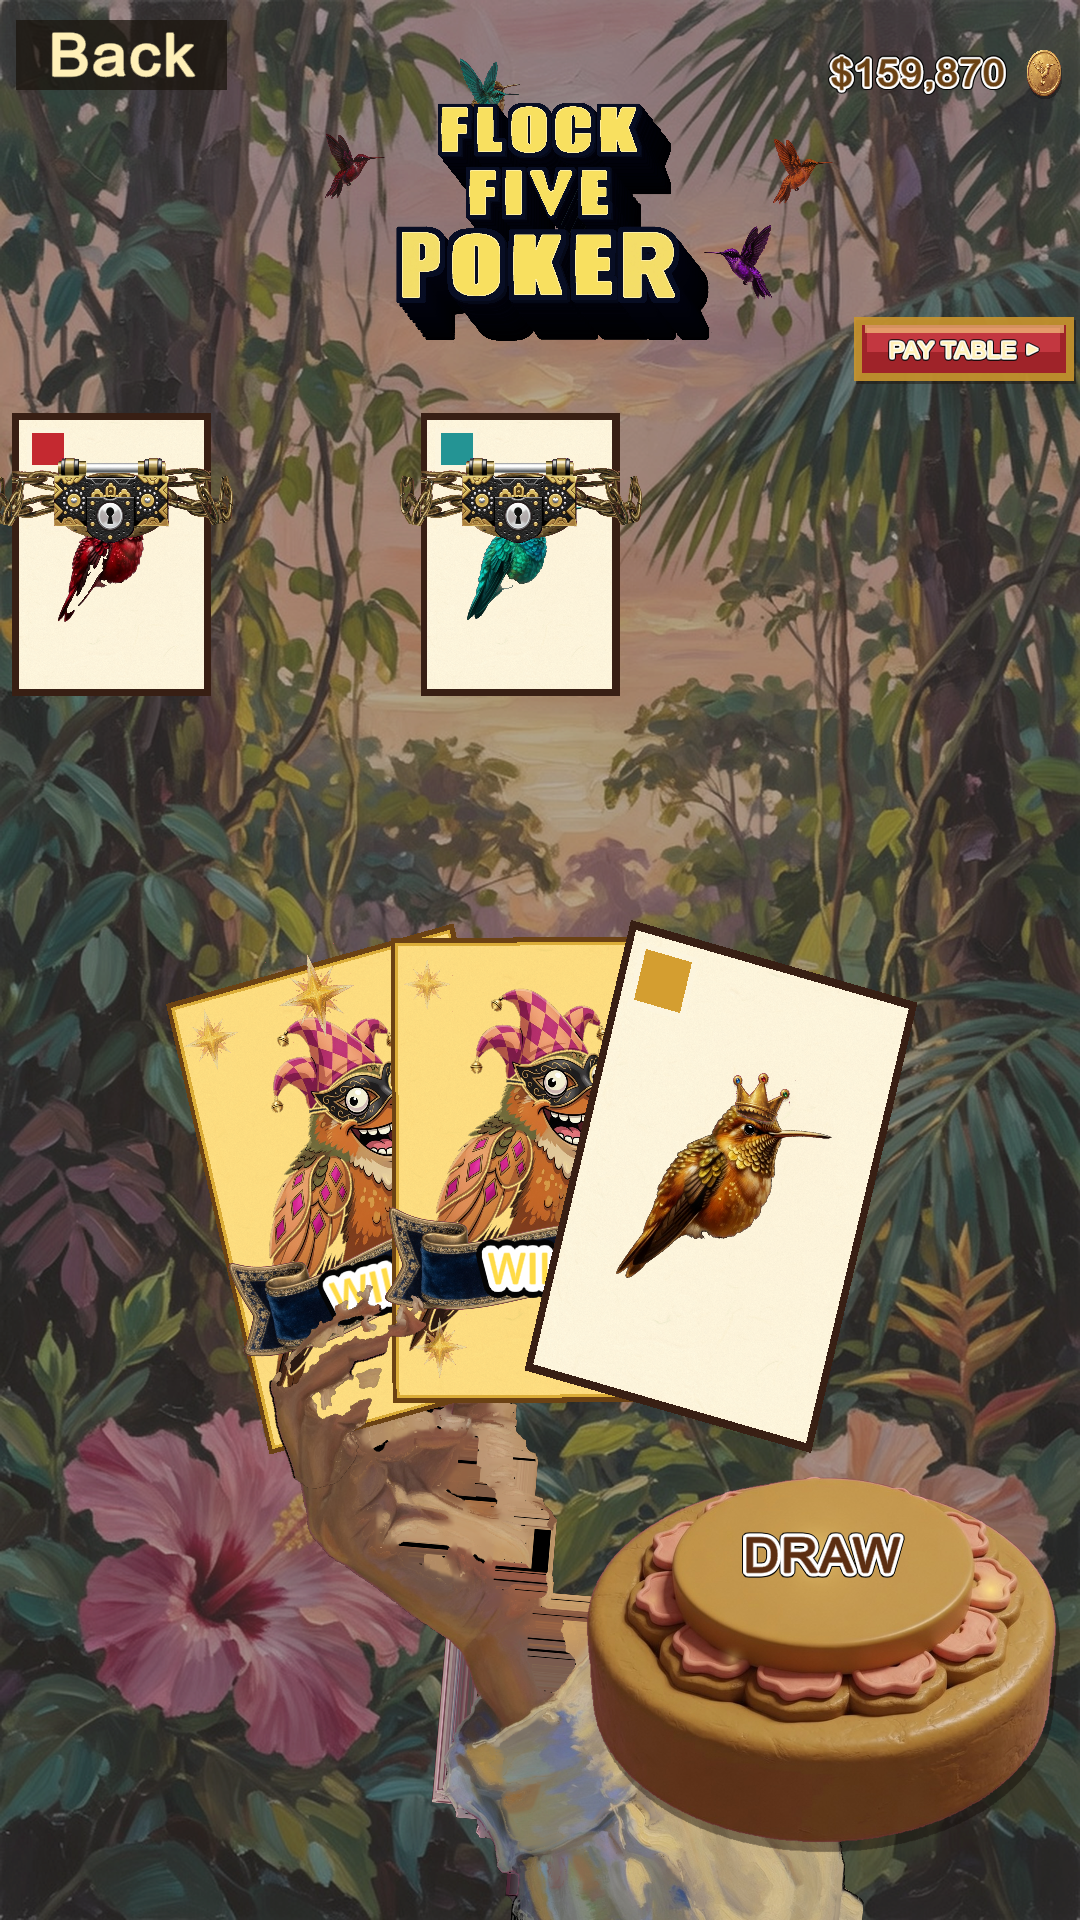
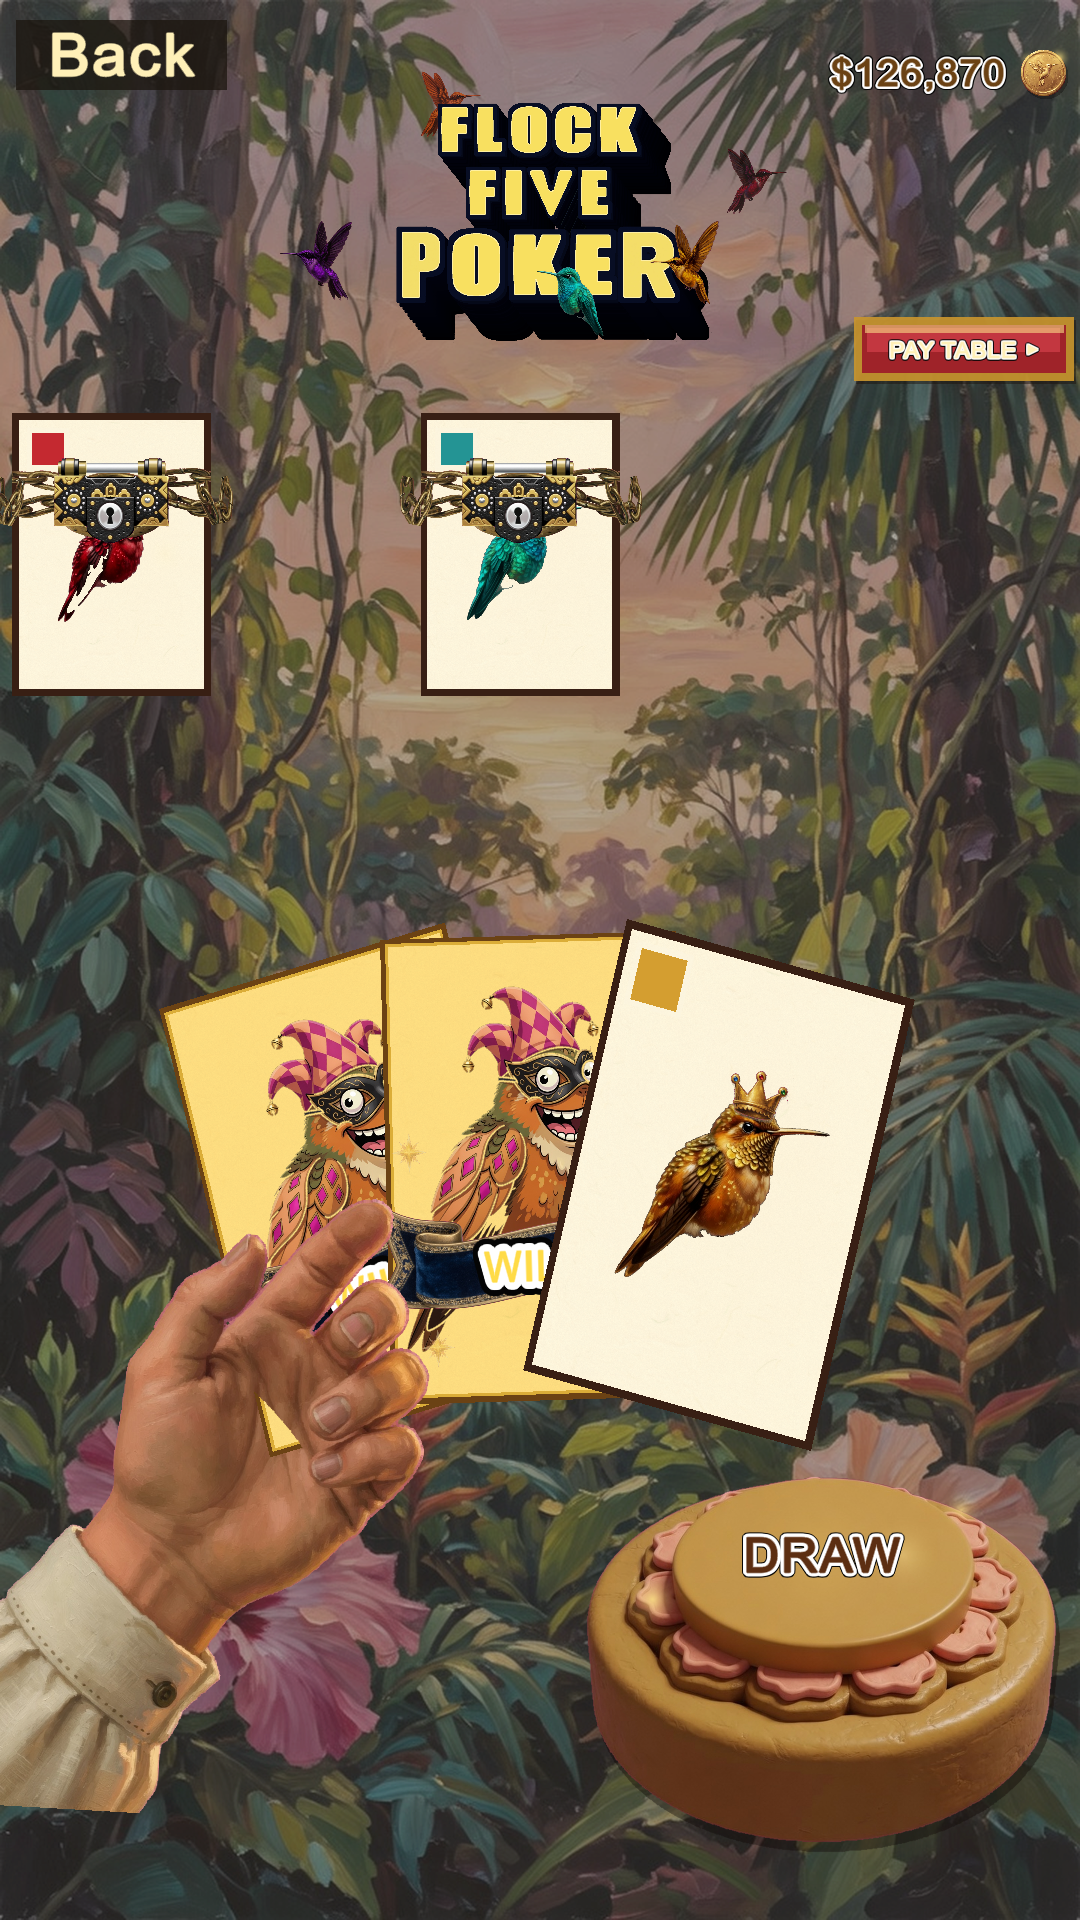
Poker: hand redo v1 — opaque by art, not HardenHand
New fan/front/pluck sprites with binary alpha. Getters load TryLoad only.
Hand enters bottom-left so DRAW/DEAL keeps a clear disk. Pass-3 fan
spacing, padlock keyhole, and wild ribbon stay. Hold negatives + 3/3 playrun.

diff --git a/Assets/_Project/Scripts/App/FlockFiveApp.cs b/Assets/_Project/Scripts/App/FlockFiveApp.cs
@@ -1032,6 +1032,7 @@ namespace FlockFive
                 yield return null;
             }
             yield return SnapShot(dir + "/poker-backs.png");
+            yield return SnapShot(dir + "/poker-idle-deal.png");
             Debug.Log("Flock Five: captured poker-backs");
             if (!BirdPoker.Deal()) yield break;
             BirdPoker.Hand[0] = BirdPoker.Card.Of(BirdColor.Ruby, BirdSex.Neutral);
@@ -4891,8 +4892,8 @@ namespace FlockFive
         const float DealBumpT = 0.24f;
         const float PokerFanScale = 1.42f;
         const float PokerFanSpan = 0.46f;
-        const float PokerFanPinchU = 0.24f;
-        const float PokerFanPinchV = 0.10f;
+        const float PokerFanPinchU = 0.40f;
+        const float PokerFanPinchV = 0.45f;
         const float PokerFanHandAspect = 0.80f;
 
         void TryPokerDeal()
@@ -5405,12 +5406,16 @@ namespace FlockFive
             float alive = u;
             float breathe = Mathf.Sin(Time.unscaledTime * 1.32f);
             float tick = Mathf.Sin(Time.unscaledTime * 2.55f);
-            float pinchX = row.center.x + _pokerKick.x + 2.2f * breathe * alive;
+            float pinchX = row.center.x - Screen.width * 0.06f + _pokerKick.x + 2.2f * breathe * alive;
             // Fingers wrap the fan bottoms — cards sit in the grip.
-            float pinchY = grip.yMax - grip.height * 0.10f + _pokerKick.y
+            float pinchY = grip.yMax - grip.height * 0.08f + _pokerKick.y
                 + (3.2f * breathe + 1.4f * tick) * alive;
             float x = pinchX - w * PokerFanPinchU;
             float y = pinchY - h * PokerFanPinchV + (1f - u) * h * 0.35f;
+            float flowerLeft = Screen.width * 0.52f;
+            if (x + w > flowerLeft)
+                x = flowerLeft - w;
+            if (x < -w * 0.08f) x = -w * 0.08f;
             float ang = 5.5f + 2.4f * breathe * alive;
             float squash = 1f + 0.016f * breathe * alive;
             var prev = GUI.matrix;

diff --git a/Assets/_Project/Scripts/Editor/PokerPlayRun.cs b/Assets/_Project/Scripts/Editor/PokerPlayRun.cs
@@ -43,6 +43,11 @@ namespace FlockFive.Editor
                 Debug.Log("[poker-playrun] " + t);
             }
             Line("poker playrun start");
+            if (!HandOpaque(Line))
+            {
+                Line("poker playrun FAIL hand-alpha");
+                return;
+            }
             Purse.Boot();
             BirdPoker.Boot();
             if (Purse.Coins < 40) Purse.Credit(40 - Purse.Coins);
@@ -108,6 +113,37 @@ namespace FlockFive.Editor
                 ok++;
             }
             Line(ok == 3 ? "poker playrun DONE 3/3" : "poker playrun FAIL " + ok + "/3");
+        }
+
+        static bool HandOpaque(System.Action<string> Line)
+        {
+            string[] paths = { "Sprites/fx_hand_fan", "Sprites/fx_hand_fan_front", "Sprites/fx_hand_pluck" };
+            for (int p = 0; p < paths.Length; p++)
+            {
+                var tex = Resources.Load<Texture2D>(paths[p]);
+                if (tex == null)
+                {
+                    Line("FAIL missing " + paths[p]);
+                    return false;
+                }
+                Color[] pix;
+                try { pix = tex.GetPixels(); }
+                catch
+                {
+                    Line("hand alpha skip unread " + paths[p]);
+                    continue;
+                }
+                int mid = 0;
+                for (int i = 0; i < pix.Length; i++)
+                    if (pix[i].a > 0.05f && pix[i].a < 0.98f) mid++;
+                Line("hand alpha " + paths[p] + " mid=" + mid);
+                if (mid > pix.Length / 200)
+                {
+                    Line("FAIL soft alpha " + paths[p] + " mid=" + mid);
+                    return false;
+                }
+            }
+            return true;
         }
 
         static int LiveFan()

diff --git a/Assets/_Project/Scripts/App/SpriteCatalog.cs b/Assets/_Project/Scripts/App/SpriteCatalog.cs
@@ -121,8 +121,7 @@ namespace FlockFive
         {
             get
             {
-                if (!HandSolid(_handFan, "HandFanSolid5"))
-                    _handFan = NameHand(HardenHand(TryLoad("Sprites/fx_hand_fan", 200f), true), "HandFanSolid5");
+                if (_handFan == null) _handFan = TryLoad("Sprites/fx_hand_fan", 200f);
                 return _handFan;
             }
         }
@@ -130,8 +129,7 @@ namespace FlockFive
         {
             get
             {
-                if (!HandSolid(_handFanFront, "HandFanFrontSolid5"))
-                    _handFanFront = NameHand(HardenHand(TryLoad("Sprites/fx_hand_fan_front", 200f), true), "HandFanFrontSolid5");
+                if (_handFanFront == null) _handFanFront = TryLoad("Sprites/fx_hand_fan_front", 200f);
                 return _handFanFront;
             }
         }
@@ -139,19 +137,9 @@ namespace FlockFive
         {
             get
             {
-                if (!HandSolid(_handPluck, "HandPluckSolid5"))
-                    _handPluck = NameHand(HardenHand(TryLoad("Sprites/fx_hand_pluck", 200f), true), "HandPluckSolid5");
+                if (_handPluck == null) _handPluck = TryLoad("Sprites/fx_hand_pluck", 200f);
                 return _handPluck;
             }
-        }
-
-        static bool HandSolid(Sprite spr, string name) =>
-            spr != null && spr.texture != null && spr.name == name;
-
-        static Sprite NameHand(Sprite spr, string name)
-        {
-            if (spr != null) spr.name = name;
-            return spr;
         }
         public static Sprite WildBanner
         {
